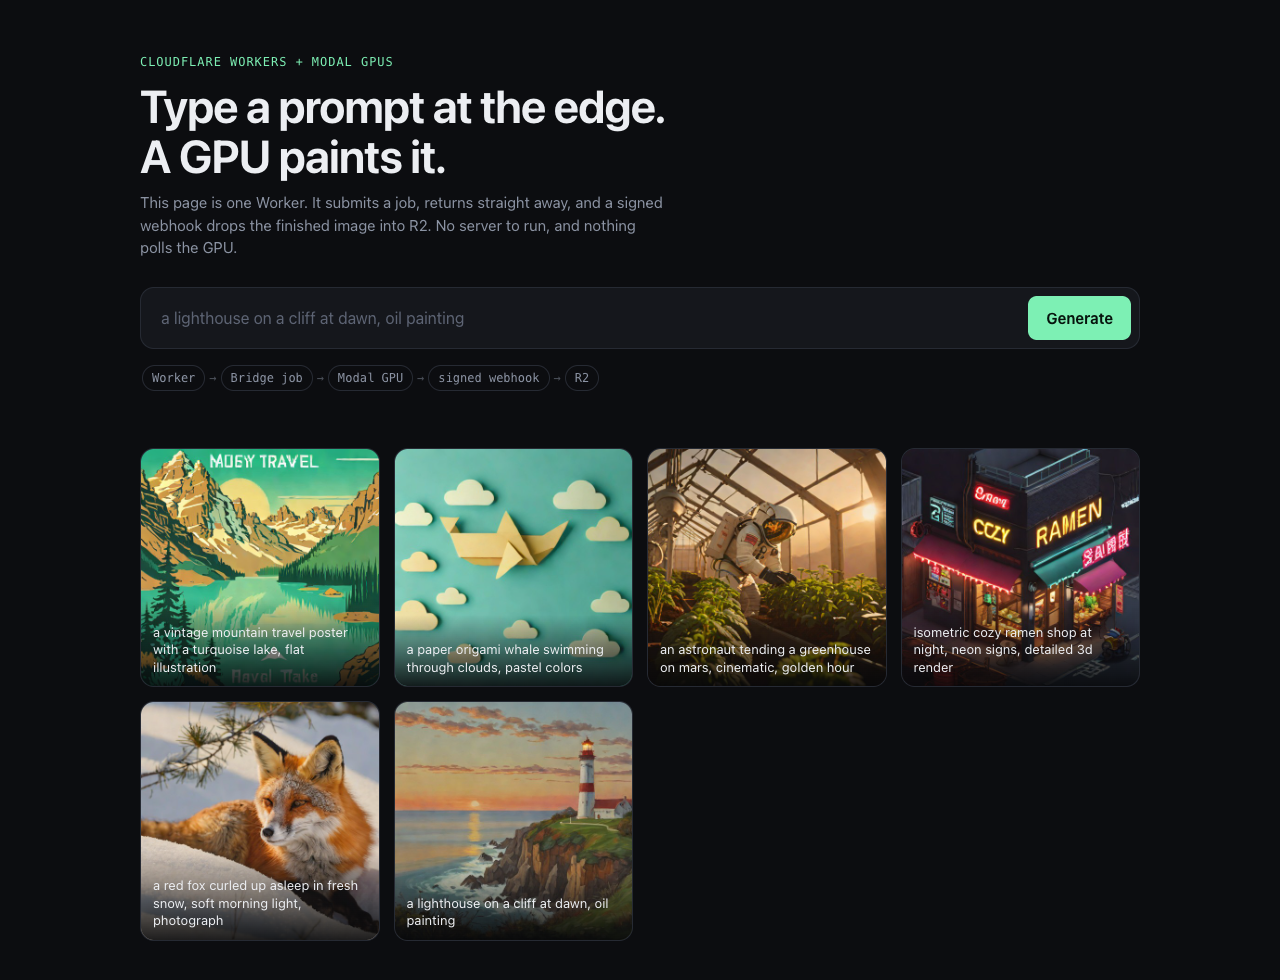
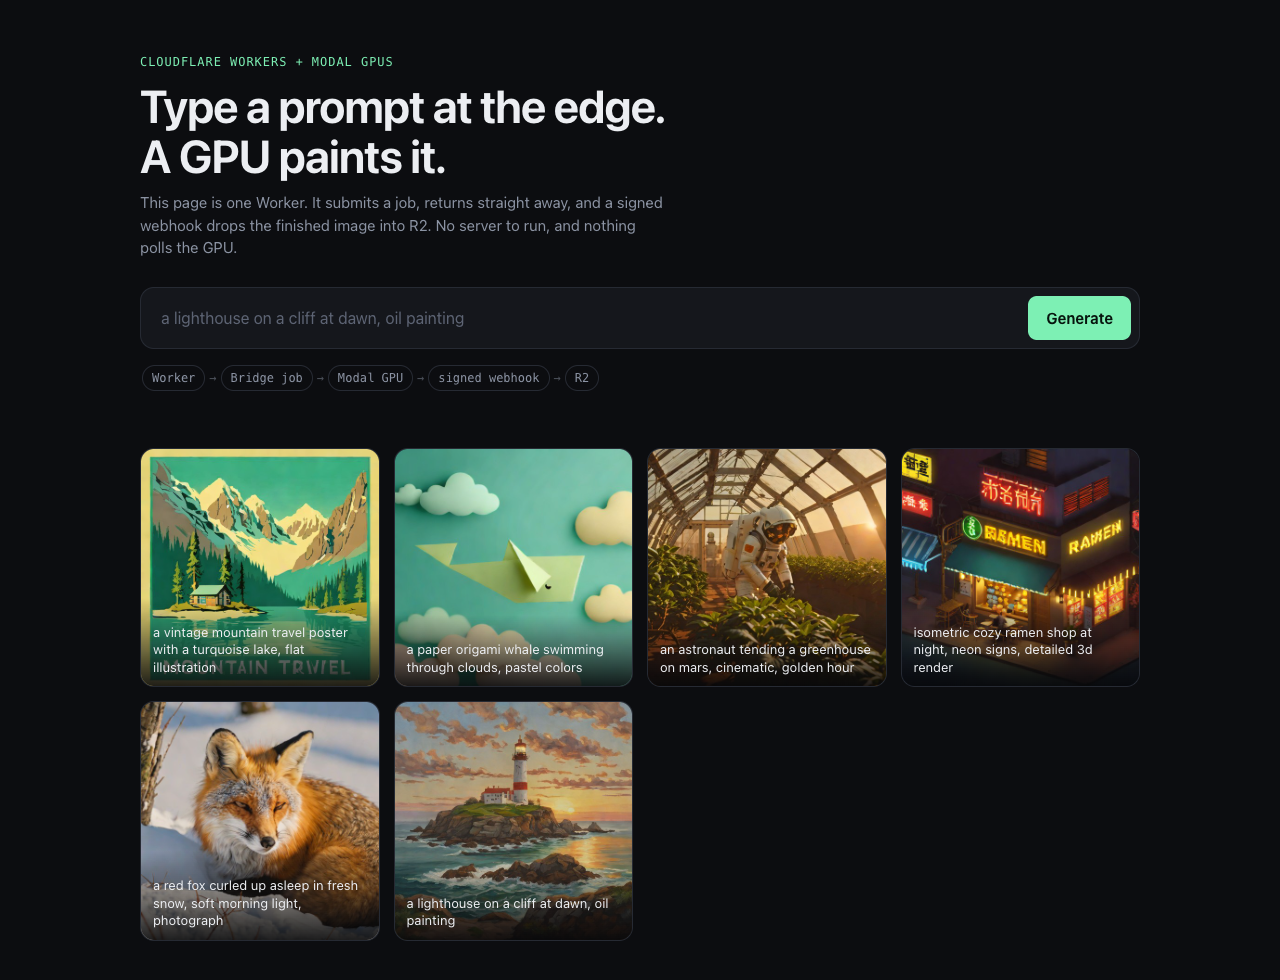
Add measured GPU timings and a GPU-generated screenshot

Changed region(s): [[0.0938, 0.4592, 0.9062, 0.949]]

diff --git a/README.md b/README.md
@@ -125,8 +125,10 @@ What it demonstrates:
 - **Spend is bounded.** `max_containers=1` caps the app at one GPU, and `--owner-max-active`
   limits each visitor (the Worker sends a hashed client ID as `Bridge-Owner`).
 
-The first image after a quiet spell also waits for Modal to boot a container and load the
-model. No GPU on your Modal account yet? `IMAGE_GEN_GPU=none modal deploy ...` runs the same
+Measured on a warm L4 with a local gateway and `wrangler dev` (six images): 0.66-0.69 s of
+GPU inference, a 0.16 s submit round trip, and 1.3-2.4 s from click to image in R2. Most of
+the remainder is the reconciler's one-second tick. The first image after a quiet spell also
+waits for Modal to boot a container and load the model: about 40 s in one cold run. No GPU on your Modal account yet? `IMAGE_GEN_GPU=none modal deploy ...` runs the same
 function on CPU (about 20 seconds per image) so you can try the whole flow first.
 SDXL-Turbo has its own license; read it before commercial use.
 
